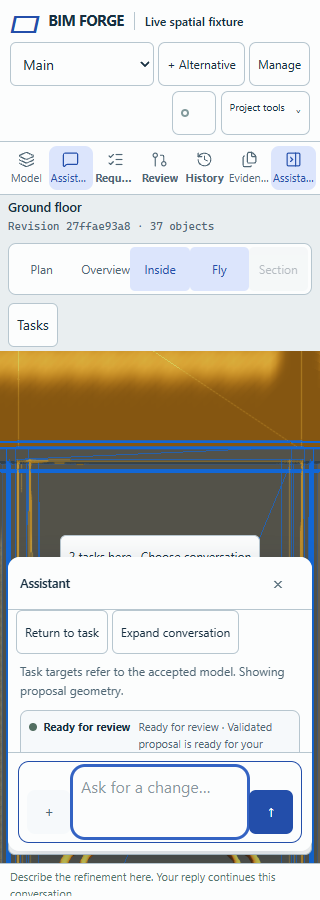
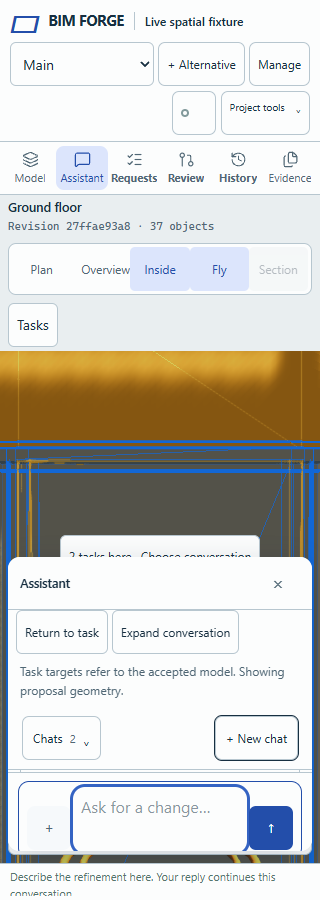
docs(spatial): record navigation repair and door-only scope proof

Changed region(s): [[0.0312, 0.7778, 0.9688, 0.9644], [0.0312, 0.1556, 0.8125, 0.2178], [0.8438, 0.1556, 1.0, 0.2178]]

diff --git a/docs/evidence/spatial-workspace-257.md b/docs/evidence/spatial-workspace-257.md
@@ -15,7 +15,7 @@ Construction-model delta outside disposable fixtures: **zero**. This change adds
 - `spatial-workspace-presentation.ts` / `canvas-studio.css`: one floating chat mount, measured/clamped labels, same-place chooser, truthful task list, explicit Return and draft-context refresh.
 - `spatial-workspace-browser.test.ts`: shipped UI and real native worker journey, plus actual batched ModelScene construction/pick/frame/export qualification.
 
-Read-only native context includes Wall, Door, Window, Space, Slab, Stair, Roof, Furniture, Equipment, AssetInstance and Level. No task mesh becomes a native entity. Region-only requests now submit zero implicit native IDs; a browsing level is not an object target.
+Read-only native context includes Wall, Door, Window, Space, Slab, Stair, Roof, Furniture, Equipment, AssetInstance and Level. No task mesh becomes a native entity. Requests contain explicit visual IDs or the selected native object; browsing floor/room context is not automatically added as an object target. Region-only requests submit zero implicit native IDs.
 
 ## Behavior and provenance
 
@@ -79,3 +79,27 @@ node --test --test-concurrency=1 demo/spatial-workspace-browser.test.ts demo/spa
 This is deterministic native/offline-worker qualification. It does not establish connected-provider interpretation accuracy or the final linked-IFC source/occurrence journey. Human visual acceptance and the combined local-release qualification remain #258 work. The parent lane already records Linux-only PDF preparation/socket prerequisites; this change does not weaken those checks or change source preparation.
 
 The existing `createDemoServer` and demo build remain the local-server seams. Browser tests run that real server on an ephemeral local port with a disposable SQLite queue and `spatialFixtureWorker`. Production deployment, provider connection, ready flags, merges and issue closure were not performed here.
+
+
+## Parent change-review repair
+
+Runtime repair: `e4c56e970d791df6d7d26af47e5f1972f84ef594`, following `14117e3`. The parent requested a presentation repair after reviewing the captures, and independently observed an incidental floor ID in the provider-lane payload. No server, queue, review authority or provider behavior changes were made.
+
+The DOM diagnosis found two competing scroll boundaries: a 508 px outer content area contained a 521 px min-content editor, while the transcript independently scrolled in a fixed 220 px viewport. The repair reserves non-shrinking header/navigation space and makes the transcript the dedicated conversation scrollport. The composer is bounded separately. The repaired outer content and editor both measure 455 px with zero outer overflow; the transcript starts exactly below the 51 px Chats navigation. The old bottom Assistant toggle remains in the existing controller seam but is hidden on phones, leaving one visible Assistant rail entry.
+
+The focused live test now opens Sources & checks and returns through Revise before inspecting the actual proposal controls. Each action is deliberately scrolled into the transcript viewport and checked for complete bounds and a real centre pointer hit. Transcript scrolling must leave the fixed navigation bounds unchanged. This preserves usable scrolling instead of requiring every proposal action to fit simultaneously in a compact conversation. Phone checks require the primary Assistant entry to remain visible and the redundant toggle to be hidden. Fresh desktop, 390 px and 320 px captures above were inspected after repair. Compact phone presentation prioritizes fixed navigation and composer; Expand conversation provides more transcript room.
+
+The request adapter also previously added browsing level/room IDs for ordinary object requests. It now keeps only explicit visual IDs or the selected native object. A deliberately selected Level still remains a valid object selection. The actual HTTP request and persisted placement are both asserted to contain exactly `[level-ground-door-inner]` in the door journey. Region-only behavior remains unchanged. The existing view/origin level metadata retains browsing context.
+
+The gold wall in the door-only capture is derived comparison geometry, not a broader object target. Executing `modelChanges(base, independentExpected)` returns exactly the Door with reason `object` and its inner host Wall with reason `placement`. The viewer paints modified geometry gold and selection outlines blue. The independent accepted-model oracle still changes only Door width and the existing hosted-by offset.
+
+Repair verification:
+
+- `npm run validate`: passed, 381 source files; demo build passed.
+- Focused actual browser/batched-source journey: **2 passed, 0 failed/skipped**, including exact door-only HTTP/placement IDs, body hit, same-place chooser, acceptance/reload, unplaced fallback and the new scroll-boundary/action-hit checks.
+- `node --test --test-concurrency=1 demo/canvas-studio-browser.test.ts demo/spatial-tasks-browser.test.ts demo/spatial-markup-browser.test.ts demo/spatial-plan-integration-browser.test.ts`: **6 passed, 0 failed/skipped**. Existing assertions were preserved.
+- Changed CSS detector: `[]`; whitespace check passed.
+
+Repair attempt notes: the initial diagnostic run encountered the existing guarded “workspace changed while this response arrived” path while a worker result arrived; the unchanged rerun completed. An intentionally stricter first layout assertion required all actions to fit simultaneously and failed because the last row legitimately crossed the dedicated scrollport bottom by 17 px. The parent clarified that usable scrolling was required. The final test proves every action is reachable, fully visible and hittable after deliberate transcript scrolling, with no header overlap. No queue or causal guard was weakened.
+
+The final evidence-only follow-up changes this document and the three captures. Runtime qualification can pin `e4c56e9`; the parent owns the final combined server/provider/release SHA and deployment.
